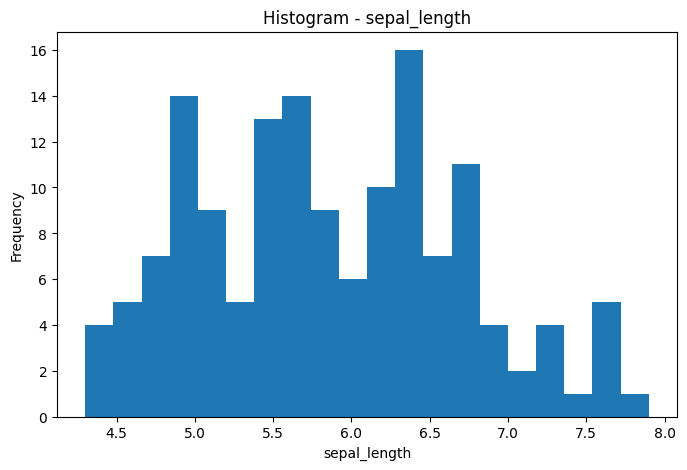
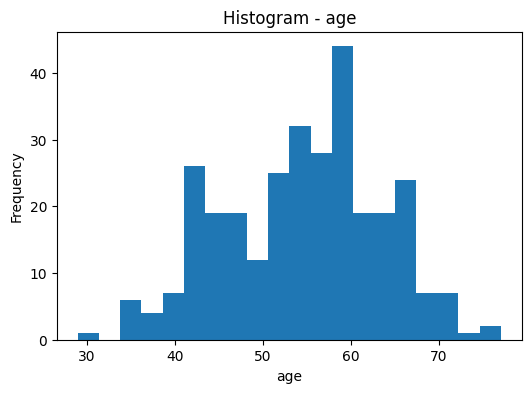
Updated requirements.txt

diff --git a/README.md b/README.md
@@ -1,0 +1,168 @@
+# Data Analytics Platform
+
+## Overview
+
+Data Analytics Platform is a web-based application built using Flask and Python that allows users to upload datasets, perform data cleaning, generate visualizations, preview data, filter records, and download processed datasets.
+
+The platform helps users quickly analyze CSV and Excel files without writing code.
+
+---
+
+## Features
+
+### Dataset Upload
+
+* Upload CSV and Excel datasets
+* Automatic file handling and storage
+
+### Data Cleaning
+
+* Handle missing values
+* Remove unnecessary data issues
+* Generate cleaned datasets
+
+### Exploratory Data Analysis (EDA)
+
+* Total rows and columns
+* Data types information
+* Missing value analysis
+* Dataset insights
+
+### Data Visualization
+
+* Heatmap
+* Histogram
+* Bar Chart
+* Pie Chart
+* Line Chart
+
+### Dataset Preview
+
+* View first 10 rows of dataset
+* Quick inspection of uploaded data
+
+### Search & Filter
+
+* Search records by column name
+* Filter data dynamically
+
+### Download Options
+
+* Download cleaned CSV file
+* Download Excel file
+
+---
+
+## Tech Stack
+
+### Backend
+
+* Python
+* Flask
+
+### Data Processing
+
+* Pandas
+* NumPy
+
+### Data Visualization
+
+* Matplotlib
+* Seaborn
+
+### Frontend
+
+* HTML
+* CSS
+
+### Version Control
+
+* Git
+* GitHub
+
+---
+
+## Project Structure
+
+data_analytics_platform/
+
+├── app.py
+
+├── services/
+
+│   ├── analysis.py
+
+│   ├── cleaning.py
+
+│   ├── graph_generator.py
+
+│   ├── upload.py
+
+│   ├── filter_data.py
+
+│   └── excel_export.py
+
+├── templates/
+
+│   ├── index.html
+
+│   └── dashboard.html
+
+├── static/
+
+│   ├── css/
+
+│   └── graphs/
+
+├── uploads/
+
+├── exports/
+
+├── database/
+
+└── requirements.txt
+
+---
+
+## Installation
+
+### Clone Repository
+
+```bash
+git clone https://github.com/akshay7546/Data-analytics-platform-.git
+```
+
+### Install Dependencies
+
+```bash
+pip install -r requirements.txt
+```
+
+### Run Application
+
+```bash
+python app.py
+```
+
+---
+
+## Future Enhancements
+
+* User Authentication
+* SQLite Database Integration
+* PDF Analytics Reports
+* AI-Based Insights
+* Dashboard Export
+* Cloud Deployment
+
+---
+
+## Author
+
+Akshay Kumar
+
+B.Tech Data Science
+
+CGC University
+
+GitHub: https://github.com/akshay7546